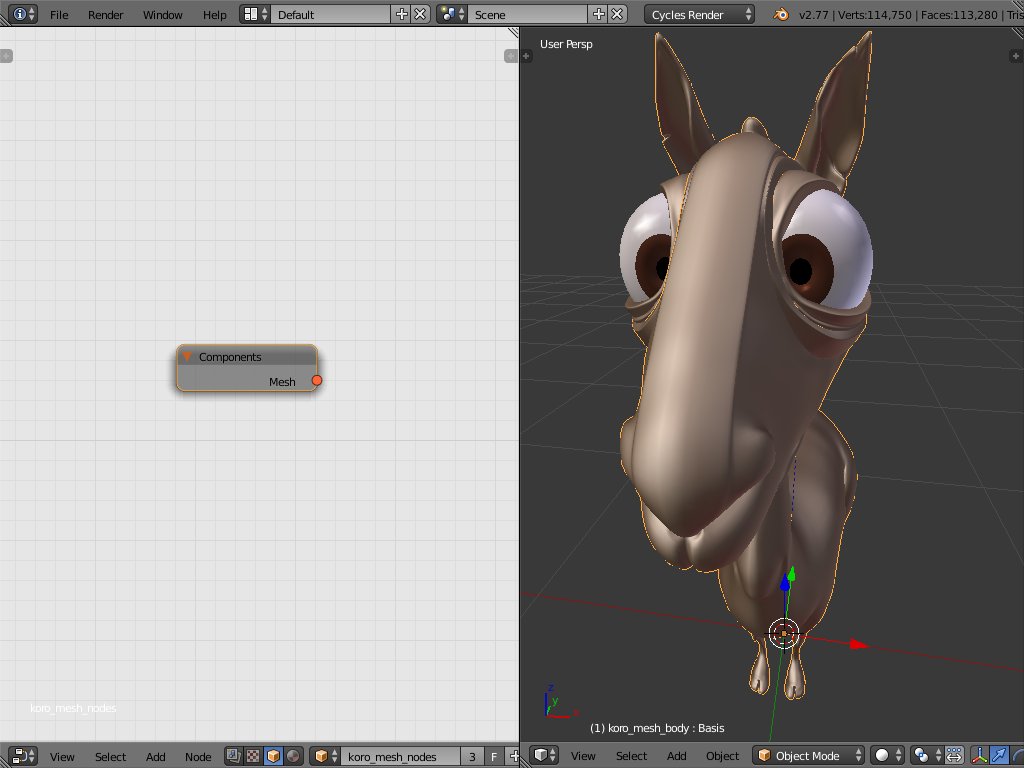
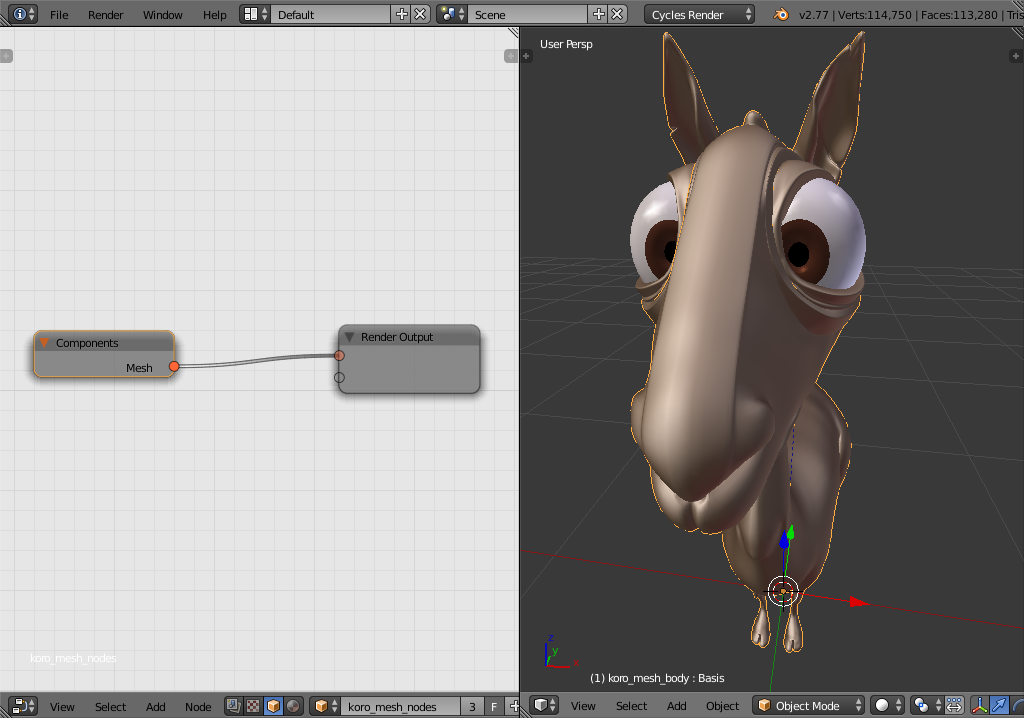
Explicit output nodes for rendering and viewport and use import node as a regular input.

diff --git a/blendfiles/object_nodes.py b/blendfiles/object_nodes.py
@@ -91,12 +91,7 @@ def object_node_item(cat_name):
 
 
 class DynamicSocketListNode:
-    def add_extender(self, socketlist, sockettype):
-        socket = socketlist.new(sockettype, "")
-        socket.is_placeholder = True
-        return socket
-
-    def update_socket_list(self, socketlist, sockettype, insert=None):
+    def update_socket_list(self, socketlist, insert=None):
         ntree = self.id_data
 
         # build map of connected inputs
@@ -114,8 +109,7 @@ class DynamicSocketListNode:
 
         # shift sockets to make room for a new link
         if insert is not None:
-            socketlist.new(sockettype, "")
-            nsocket = socketlist[-1]
+            nsocket = self.dynamic_socket_append(socketlist)
             for socket in reversed(socketlist[:-1]):
                 link, from_socket = input_links.get(socket, (None, None))
                 if link is not None:
@@ -125,35 +119,26 @@ class DynamicSocketListNode:
                 if socket == insert:
                     break
 
-        self.add_extender(socketlist, sockettype)
+        socket = self.dynamic_socket_append(socketlist)
+        socket.is_placeholder = True
 
-    def compile_socket_list(self, compiler, socketlist, passtype, jointype, valuetype):
-        ntree = self.id_data
+    def init(self, context):
+        if self.is_updating:
+            return
+        with self.update_lock():
+            self.update_socket_list(self.inputs)
 
-        # list of connected inputs
-        used_inputs = set()
-        for link in ntree.links:
-            if link.to_node == self:
-                used_inputs.add(link.to_socket)
-        # make a sorted index list
-        used_inputs = [ i for i,socket in enumerate(socketlist) if socket in used_inputs ]
+    def update(self):
+        if self.is_updating:
+            return
+        with self.update_lock():
+            self.update_socket_list(self.inputs)
 
-        if len(used_inputs) > 0:
-            node = compiler.add_node(passtype)
-            compiler.map_input(used_inputs[0], node.inputs[0])
-            result = node.outputs[0]
-        
-            for index in used_inputs[1:]:
-                node = compiler.add_node(jointype)
-                compiler.link(result, node.inputs[0])
-                compiler.map_input(index, node.inputs[1])
-                result = node.outputs[0]
-
-        else:
-            node = compiler.add_node(valuetype)
-            result = node.outputs[0]
-
-        return result
+    def insert_link(self, link):
+        if self.is_updating:
+            return
+        with self.update_lock():
+            self.update_socket_list(self.inputs, insert=link.to_socket)
 
 
 ###############################################################################
@@ -241,6 +226,22 @@ class ObjectComponentSocket(NodeSocket):
 ###############################################################################
 
 
+_component_types = [
+    ('MESH', 'Mesh', 'Mesh data', 'ObjectComponentSocket'),
+    ('VERTEX_LOC', 'Vertex Location', 'Vertex location data', 'NodeSocketVector'),
+    ]
+_component_items = [ (comp[0], comp[1], comp[2]) for comp in _component_types ]
+def make_component_sockets(socketlist, readonly, default):
+    for comp in _component_types:
+        socket = socketlist.new(comp[3], comp[1])
+        if hasattr(socket, "is_readonly"):
+            socket.is_readonly = readonly
+        socket.enabled = (comp[0] == default)
+def show_component_socket(socketlist, active):
+    for socket, comp in zip(socketlist, _component_types):
+        socket.enabled = (comp[0] == active)
+
+
 # for manually adding dummy component inputs
 class AddComponentInput(Operator):
     bl_idname = "object_nodes.add_component_input"
@@ -300,6 +301,28 @@ class ComponentsNode(ObjectNodeBase, Node):
         pass
 
 @object_node_item('Mockups')
+class RenderGeometryOutputNode(ObjectNodeBase, Node, DynamicSocketListNode):
+    '''Render geometry output'''
+    bl_idname = 'RenderGeometryOutputNode'
+    bl_label = 'Render Output'
+
+    def dynamic_socket_append(self, socketlist):
+        socket = socketlist.new("ObjectComponentSocket", "")
+        socket.is_readonly = True
+        return socket
+
+@object_node_item('Mockups')
+class ViewportGeometryOutputNode(ObjectNodeBase, Node, DynamicSocketListNode):
+    '''Viewport geometry output'''
+    bl_idname = 'ViewportGeometryOutputNode'
+    bl_label = 'Viewport Output'
+
+    def dynamic_socket_append(self, socketlist):
+        socket = socketlist.new("ObjectComponentSocket", "")
+        socket.is_readonly = True
+        return socket
+
+@object_node_item('Mockups')
 class ArmatureDeformNode(ObjectNodeBase, Node):
     '''Deform a mesh with an armature pose'''
     bl_idname = 'ArmatureDeformNode'
@@ -324,8 +347,6 @@ class BoneConstraintsNode(ObjectNodeBase, Node):
         self.inputs.new('ObjectComponentSocket', "Pose")
         self.outputs.new('ObjectComponentSocket', "Pose")
 
-
-
 @object_node_item('Mockups')
 class ExportComponentsNode(ObjectNodeBase, Node, DynamicSocketListNode):
     '''Export object components to a cache file'''
@@ -345,39 +366,25 @@ class ExportComponentsNode(ObjectNodeBase, Node, DynamicSocketListNode):
         layout.context_pointer_set("node", self)
         layout.operator("object_nodes.add_component_input")
 
-    def init(self, context):
-        if self.is_updating:
-            return
-        with self.update_lock():
-            self.update_socket_list(self.inputs, 'ObjectComponentSocket')
+    def dynamic_socket_append(self, socketlist):
+        socket = socketlist.new("ObjectComponentSocket", "")
+        socket.is_readonly = True
+        return socket
 
-    def update(self):
-        if self.is_updating:
-            return
-        with self.update_lock():
-            self.update_socket_list(self.inputs, 'ObjectComponentSocket')
+# @object_node_item('Mockups')
+# class ImportSingleComponentNode(ObjectNodeBase, Node):
+#     '''Import data for a single component from cache'''
+#     bl_idname = 'ImportSingleComponent'
+#     bl_label = 'Import Single Component'
 
-    def insert_link(self, link):
-        if self.is_updating:
-            return
-        with self.update_lock():
-            self.update_socket_list(self.inputs, 'ObjectComponentSocket', insert=link.to_socket)
+#     cachefile = StringProperty(name="Cache File", subtype='FILE_PATH')
 
-@object_node_item('Mockups')
-class ImportSingleComponentNode(ObjectNodeBase, Node):
-    '''Import data for a single component from cache'''
-    bl_idname = 'ImportSingleComponent'
-    bl_label = 'Import Single Component'
+#     def draw_buttons(self, context, layout):
+#         layout.prop(self, "cachefile")
 
-    cachefile = StringProperty(name="Cache File", subtype='FILE_PATH')
-
-    def draw_buttons(self, context, layout):
-        layout.prop(self, "cachefile")
-
-    def init(self, context):
-        self.inputs.new('ObjectComponentSocket', "Component")
-        self.outputs.new('ObjectComponentSocket', "Component")
-
+#     def init(self, context):
+#         self.inputs.new('ObjectComponentSocket', "Component")
+#         self.outputs.new('ObjectComponentSocket', "Component")
 
 @object_node_item('Mockups')
 class ImportComponentsNode(ObjectNodeBase, Node):
@@ -399,7 +406,6 @@ class ImportComponentsNode(ObjectNodeBase, Node):
     def init(self, context):
         # component outputs added manually for now
         pass
-
 
 @object_node_item('Mockups')
 class ApplyIslandTransformsNode(ObjectNodeBase, Node):

diff --git a/source/caching.rst b/source/caching.rst
@@ -96,31 +96,22 @@ We want to simplify lighting and rendering by using cached animation, instead of
 
    .. note:: A special option "Only Deform" could be an export option to store only deformation layers (vertex offsets) of the mesh, without topology. Would make it essentially like current MMD/PC2 caches. Can break more easily if modifiers change the topology, such modifiers must be left intact when re-importing the cache. The overhead for storing full mesh data once is probably negligable for typical scenarios, so a "only deform" option may not be necessary in practice.
 
-3) Lighting file: A new object must be created to load the cached animation. Two possible methods:
-   
-   a) append the original object and then remove unused components (rig + pose)
-   b) create a simple new object from scratch (everything will be loaded from the cache)
-
-   +---------------------------------------------------+---------------------------------------------------+
-   | .. image:: /images/caching_workflow_newscene1.png | .. image:: /images/caching_workflow_newscene2.png |
-   |   :width: 100%                                    |   :width: 100%                                    |
-   |                                                   |                                                   |
-   | | \a. New file can start by appending the full    | | \b. Alternatively start with a plain object and |
-   | | asset, then remove the rig.                     | | load all components from the cache              |
-   |                                                   |                                                   |
-   +---------------------------------------------------+---------------------------------------------------+
-
-4) "Import Single Component" node can be used to load a specific component. The mesh component is plugged into the input and matching cache data is loaded from the cache file. The component data gets replaced, but the component has to exist beforehand.
+3) Lighting file: The cached mesh data can be imported into a mesh object now. The "Import Components" node loads all available components from the cache file and presents them as sockets. It is similar to a regular "Components" node but uses the cached data instead of local object components.
 
    .. figure:: /images/caching_workflow_importmesh1.png
      :width: 60%
      :figclass: align-center
 
-.. todo::
-   5) If only partial import of the mesh is desired (e.g. only deformations) the cached data should be merged with original data. A "Merge" node allows cherry-picking a few data layers and replacing the same layers in another mesh (compare: data transfer modifiers)
+4) Cached data can be applied partially to the base mesh, for example if only deformation is wanted.
 
-Full Object Export/Import 1
-===========================
+   .. figure:: /images/caching_workflow_importmesh2.png
+     :width: 60%
+     :figclass: align-center
+
+   .. note:: Such transfer of attributes between meshes expects matching topology and can otherwise create a garbled mesh. Because this process is non-desctructive, the consequences are minimal.
+
+Full Object Export/Import
+=========================
 
 Rather than loading just a single component, we can also just load the complete object from a cache.
 
@@ -134,13 +125,8 @@ Rather than loading just a single component, we can also just load the complete 
      :width: 60%
      :figclass: align-center
 
-3) Lighting file: "Import Components" node is added, it looks much like a regular "Components" node. It provides all components stored in the object's cache. Unlike the "Import Single Component" node, it does not require predefined components, but will create them as needed based on the cache file content.
+3) Lighting file: "Import Components" node is added. It provides all components stored in the object's cache.
 
    .. figure:: /images/caching_workflow_fullimport_nodes.png
      :width: 60%
      :figclass: align-center
-
-Full Object Export/Import 2
-===========================
-
-Rather than using object nodes to handle caching, the same could be done on a more traditional object UI level. Caches would be assigned in a panel and all components are imported. The "Components" object node then provides the imported cache content as if it was generated within Blender.

diff --git a/source/object_nodes.rst b/source/object_nodes.rst
@@ -21,14 +21,12 @@ Nodes promise to avoid these problems:
 * Artists can start with a clean slate or a minimal default setup, then just add what is needed
 * Small-scale nodes enforce stateless code without side-effects
 
-Where should nodes be hooked into Blender?
-------------------------------------------
+Components
+----------
 
-Current nodes:
+To describe common features of data in objects, "components" are introduced. An object component is
 
-* shader/material nodes: used when the renderer calculates a surface/volume sample
-* texture nodes: used when the renderer calculates a texture sample (integrated into shader nodes in Cycles!)
-* compositing nodes: used when the render result is recalculated
+* optional:
 
 
 Workflow Case Studies
@@ -41,13 +39,13 @@ Simple Animation Workflow
 
 .. note:: linking issues are ignored here, everything assumed to be local, no proxies needed!
 
-1. Geometry (mesh) component is default for mesh objects (or created by the user). Geo component is by default initialized as the Mesh data block pointed to by ob->data.
+1. By default the mesh component (``Mesh`` object data block) is used as render output directly.
 
 .. figure:: /images/animation_workflow_base1.png
  :width: 60%
  :figclass: align-center
 
-2. Armature node deforms the mesh using the Armature object. The Armature object has pose component.
+2. Armature node deforms the mesh using the Armature object. The Armature object has a pose component. Note that the armature object is not connected to a render node or viewport node, so it will just display bone poses by default.
    .. note:: Proxies would override this pose component, even though it is locked when using a linked object.
 
 .. figure:: /images/animation_workflow_base2.png
